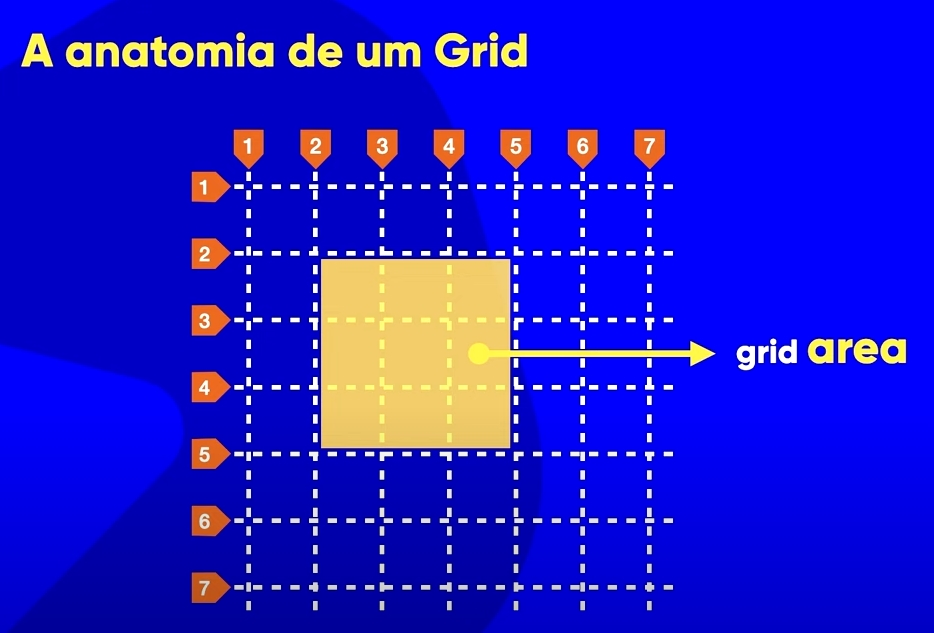
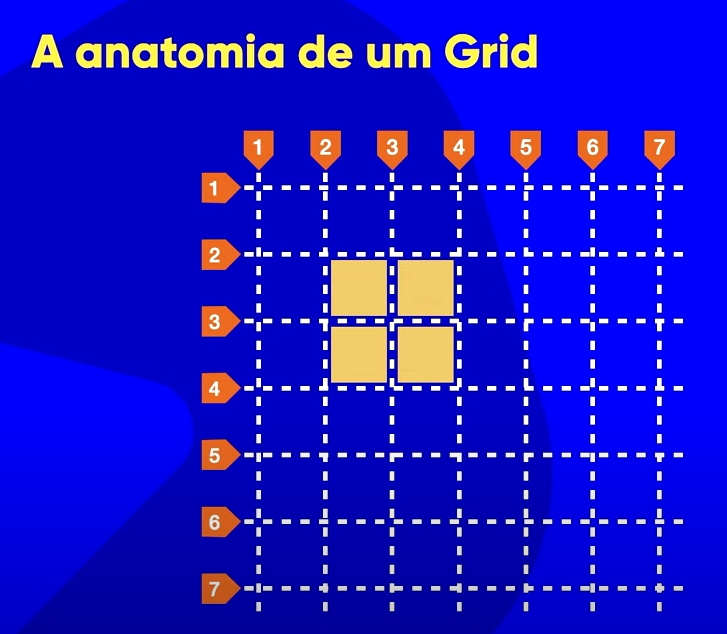
Conclusão
Módulo 05, Capítulo 28, Aula 02

diff --git a/Curso completo e atual de HTML5 e CSS3 - Módulos COMENTADOS/Exercicios/Modulo-05/ex028/grid002/index.html b/Curso completo e atual de HTML5 e CSS3 - Módulos COMENTADOS/Exercicios/Modulo-05/ex028/grid002/index.html
@@ -54,7 +54,7 @@
                 <div class="div_img_main">
                     <p>Neste exemplo abaixo temos uma "Grid" 6x6 que equivale a 6/linhas e 6/colunas:</p>
                     <div>
-                        <img class="img_main img2" src="./img2/img.jpg" alt="imagem W3C">
+                        <img class="img_main img2" src="./img2/img.jpg" alt="imagem de uma grid">
                     </div>
                 </div>
                 
@@ -75,118 +75,168 @@
                 <div>
                     <h1>Definição de Grid Container e Grid Item</h1>
                     <span class="span_minute">4:06</span>
-                    <p>O <span class="span_destaque">'container'</span> é a caixa que envolve outras caixas; Ou podemos chamar o container de<span class="span_destaque">"caixa pai"</span>, onde contém outras caixas que podem ser chamadas de "itens" ou "elemento filhos" como podemos ver no exemplo abaixo:</p>
+                    <p>O <span class="span_destaque">'container'</span> é a caixa que envolve outras caixas; Ou podemos chamar o container de <span class="span_destaque">"caixa pai"</span>, que é onde contém outras caixas que podem ser chamadas de "itens" ou "elemento filhos" como podemos ver no exemplo abaixo:</p>
                     <p><strong><span class="span_destaque">...................</span></strong></p>
-                    O 'container' é a caixa que envolve outras caixas; Ou podemos chamar o container de "caixa pai" onde contém outras caixas que podem ser chamadas de "itens" ou "elemento filhos" como podemos ver no exemplo abaixo:
                 </div>
-                                                <!--
                 <div class="div_img_main">
                     <div>
-                        <img class="img_main img2_main" src="./img1/img5.jpg" alt="imagem exemplo site G1">
+                        <img class="img_main img2_main" src="./img2/img1.jpg" alt="imagem de uma grid container">
                     </div>
-                    <p>Então vemos no exemplo do site do G1 abaixo, que as partes tracejadas formam as colunas verticalmente, e as partes horizontais formam as linhas.</p>
+                    <p>Na imagem seguinte vemos que um 'item' ou "vários itens" se forma na junção das grades:</p>
                     <div>
-                        <img class="img_main img2_main" src="./img1/img6.jpg" alt="imagem exemplo site G1 com linhas tracejadas">
+                        <img class="img_main img2_main" src="./img2/img2.jpg" alt="imagem de um grid item">
                     </div>
-                </div>
-                <p>
-                    A específicação de Grid Layout surgiu em 2011 sendo a primeira versão a ser citada como padrão que virou 'wyse candate'.
-                    <strong>
-                        Ainda nos exemplo a seguir, o professor delimita|marca a área com linhas brancas as quas seguem as linhs tracejadas e assim formam os 'blocos'.
-                    </strong>
-                    <div>
-                        <img class="img_main" src="./img1/img7.jpg" alt="imagem exemplo site G1 com linhas brancas delimitando blocos">
-                    </div>
-                </p>
-                <br>
-                <aside>
-                    <p class="p_destaque2" style="text-align: center;">Com esses exemplos podemos entender que um bloco pode ser definido começando de uma determinada linha vertial até outra, e ao mesmo tempo começando de uma determinada linha horizontal até outra;</p>
-                    <p class="p_destaque2">No exemplo abaixo vemos que esse bloco do meio <span style="color: rgb(0, 110, 255);">"Esse maior com outros dois blocos dentro"</span>, começa na <span class="span_destaque2">linha vertical 2</span> e termina na <span class="span_destaque2">linha 22</span>, e ao mesmo tempo começa na <span class="span_destaque2">linha horizontal 2</span>, e termina na linha <span class="span_destaque2">horizontal 4</span> 'de acordo com a marcação exemplar do professor!'.</p>
-                    <div>
-                        <img class="img_main" src="./img1/img8.jpg" alt="imagem exemplo site G1 com linhas brancas delimitando blocos">
-                    </div>
-                    <p class="p_destaque2" style="text-align: center;">É justamente isto que é sensacional no <span class="span_destaque2">'Grid Layout'</span> , pois podemos <span style="color: rgb(0, 110, 255);">"criar"</span> interfaces de maneira mais fácil.</p>
-                    
-                    <p class="p_destaque2" style="text-align: center;"><span class="span_destaque2">Observe</span> que as linhas brancas <span style="color: rgb(0, 110, 255);">seguem as pontilhadas formando as áreas;</span> Então a proposta foi montada seguindo essas linhas pontilhadas para se ter uma idéia de como pode ser a distribuição dos elementos do site G1 dentro da Grid.
-                    </p>
-                    <p class="p_destaque2" style="text-align: center;"><span class="span_destaque2">Observação:</span> Lembra que; Talvez no módulo <span style="color: rgb(0, 110, 255);">2</span> do curso onde aprendemos a montar um grade, a estrutura do site?
-                        <br>
-                        Pois bem; Este exemplo abaixo é uma estrutura muito mais avançada.
-                    </p>
-                    <div>
-                        <img class="img_main" src="./img1/img9.jpg" alt="imagem exemplo site G1 com linhas brancas delimitando blocos">
-                    </div>
-
-                    <p class="p_destaque2" style="text-align: center;"><span class="span_destaque2">"Então"</span> , essa estrutura mostrada no vídeo pode ser uma grade de proposta <span style="color: rgb(0, 110, 255);">"uma versão"</span> ou uma possibilidade que conseguimos fazer com Grid Layout no site do G1.
-                        Veja abaixo como fica essa possibilidade marcadas por linhas brancas.
-                        <br>
-                        <span class="span_destaque2">Mas</span> saiba que no fim, tudo obedece a grade mostrada antes.
-                    </p>
-                    <div>
-                        <img class="img_main" src="./img1/img9a.jpg" alt="imagem exemplo site G1 com linhas brancas delimitando blocos">
-                    </div>
-                </aside>
-            </section>
-            <section>
-                <div class="div_img_main">
-                    <p>O exemplo abaixo mostra como fica esta estrutura de Grid em telas menores|estreitas, como é o caso de celulares.</p>
-                    <div>
-                        <img class="img_main img2_main" src="./img1/img10.jpg" alt="imagem exemplo site G1">
-                    </div>
-                    <div>
-                        <img class="img_main img2_main" src="./img1/img11.jpg" alt="imagem exemplo site G1 com linhas tracejadas">
-                    </div>
-                    <p>Portanto o objetivo do <span style="color: rgb(0, 110, 255);">Grid Layout</span> é criar interfaces; Posicionar elementos|itens dentro da grade de maneira organizada, para que consigamos ver o site de uma forma apresentável em deversos tipos de telas.</p>
                 </div>
             </section>
         </article>
         <article>
             <section>
-                <h1>Pra que surgiu o Grid Laout?</h1>
-                <span class="span_minute">9:31</span>
+                <h1>Explicação sobre Grid Tracks (Row Tracks e Column Tracks)</h1>
+                <span class="span_minute">5:23</span>
                 <div class="div_img_main">
-                    <p>Alguns anos atrás, antes da específicação da Grid Layout, tudo era 'macro' na intenet, e os sites eram 'Horripilantes' sem design ou efeitos visual agradáveis.
-                    <br>
-                    Na vídeo aula vimos alguns exemplos, como o caso do site <span style="color: rgb(0, 53, 122);">'3DRealms.com'</span> feito no modelo antigo que usa o conceito de tabela;
+                    <p>Quando temos vários itens na mesma linha ou na mesma coluna; "Estes itens que vão do ínicio ao fim da grade" e que seja na vertical ou na horizontal, chamamos a estes de
+                        <br>
+                        <span style="color: rgb(0, 53, 122);">"Grid Track".</span>
                     </p>
-                    
-                    <div>
-                        <img class="img_main img2_main" src="./img1/img12.jpg" alt="imagem exemplo site 3DRealms.com">
-                    </div>
                     <p>
-                        Outro exemplo de site criado com tabela é o <span style="color: rgb(0, 53, 122);">'logracket.com' </span> que também usa o mesmo conceito que aprendemos nas aulas sobre tabelas.
+                        O nome <span style="color: rgb(0, 53, 122);">"Grid Track".</span> é um nome genérico, pois existem os nomes para os blocos deitados e os blocos em pé; Que são:<strong>'linha e coluna'</strong>.
+                    </p>
+                    <p>
+                        "OUTRO DETALHE IMPORTANTE:" <span style="color: rgb(0, 53, 122);">Quando as "tracks" se encontram; Esse ponto de encontro|cruzamento, chamamos de 'Item de Grade'. 
+                        <br>
+                        <strong>Observe no detalhe da imagem acima, onde o "item de grade" tem a sua cor destacada.</strong> </span>
+                    </p>
+                    <p>Quando temos uma "grid track" /deitada/horizontal, chamamos ele de <span style="color: rgb(0, 53, 122);">row_track</span>, e quando temos a "track" /em-pé/vertical, chamamos ela de <span style="color: rgb(0, 53, 122);">column_track</span> como podemos ver no exemplo da imagem abaixo:
+                        <br>
                     </p>
                     <div>
-                        <img class="img_main img2_main" src="./img1/img13.jpg" alt="imagem exemplo site logracket.com">
-                    </div>
-                    <p>Outra maneira antiga, e "parece até ter surgido antes"; Era a criação de sites com o uso dos <span style="color: rgb(0, 53, 122);">'frames'.</span>
-                    <br>
-                    Um exemplo com esse conceito bizonho, é o site 'logracket.com' no 'Danny´s Homepage'.</p>
-                    <div>
-                        <img class="img_main img2_main" src="./img1/img14.jpg" alt="imagem exemplo site logracket.com no Danny´s Homepage">
+                        <img class="img_main img2_main" src="./img2/img4.jpg" alt="imagem grid track,row track e column track">
                     </div>
                 </div>
                 <aside>
-                    <p>Essa maneira de criar site foi sendo deixada de lado no que diz respeito a <span class="span_destaque2">aparência e interatividade</span>, uma vez que geralmente neste tipo site, a parte lateral, a parte de cima do site ficava parada enquanto que o meio onde fica o conteúdo da página rolava e todo o resto ficava parado;
+                    <p>Quando temos "linhas" entre os elementos, chamamos estas linhas de <span class="span_destaque2">Grid_lines</span>; Nos exemplos abaixo onde a grade é de 6x6, temos <span style="color: rgb(6, 102, 228);">7/grid_lines_horizontais e 7/grid_lines_verticais</span>.
                     <br>
-                    Isso gerava um problema muito grande, porque em telas um pouco menores, e <span style="color: rgb(6, 102, 228);">"isso começou a acontecer com frequência";</span> Existia versões do mesmo site onde assim que era acessada a página principal, o usuário teria de escolher entre a versão com <span class="span_destaque2">'frames'</span> versão <span class="span_destaque2">'sem frames'</span>.
+                    <strong>As grid lines horizontais delimitam os itens de linhas e as grid lines verticais delimitam os itens de coluna.</strong>
                     </p>
+                    
+                    <p><span class="span_destaque2">"OBSERVE:"</span>
+                        Que neste exemplo abaixo, as <span style="color: rgb(6, 102, 228);">'grid lines' em pé</span> tem sua enumeração da esquerda para direita.</p>
                     <div>
-                        <img class="img_main" src="./img1/img15.jpg" alt="imagem exemplo site logracket.com no Danny´s Homepage com opção de versões">
+                        <img class="img_main" src="./img2/img5.jpg" alt="imagem exemplo de númeração de grid line">
                     </div>
-                    <p>Isso se dava porque as telas menores começaram a sugir, e também alguns navegadores começaram a ser incompátiveis com o uso de frames.</p>
+
+                    <p><span class="span_destaque2">Já neste exemplo abaixo</span>
+                        , as <span style="color: rgb(6, 102, 228);">'grid lines' deitadas</span> são enumeradas de cima para baixo.</p>
+                    <div>
+                        <img class="img_main" src="./img2/img6.jpg" alt="imagem exemplo de númeração de grid line">
+                    </div>
                 </aside>
             </section> -->
         </article>
+        <article>
+            <section>
+                <h1>Numeração das Grid Lines (positiva e negativa)</h1>
+                <span class="span_minute">10:00</span>
+                <div class="div_img_main">
+                    <p><span class="span_destaque">A Numeração das 'grid lines'</span> podem ser <span style="color: rgb(0, 53, 122);">(positivas ou negativas) </span> e compreender isto, facilita na hora de criação de /grades.
+                    </p>
+                    <div>
+                        <img class="img_main img2_main" src="./img2/img7.jpg" alt="imagem grid lines positivas e negativas">
+                    </div>
+                </div>
+                <aside>
+                    <p>Saber as númearações das 'grid lines' nos ajudam bastante, pois muitas vezes não sabemos o valor real da última grid line; <span>Então podemos dizer que ela é a </span> <span class="span_destaque2">(-1)</span>; independente do tamanho da /grade.<span style="color: rgb(6, 102, 228);">"-1 vai ser sempre a última."</span>.
+                        <br>
+                        <span class="span_destaque2">'OBS':</span>
+                        <strong>Podemos dizer que a linha de <span style="color: rgb(6, 102, 228);">(número 1)</span>, também equivale a linha <span class="span_destaque2">(-7) </span>"Isso para o nosso exemplo de grade, que é <span style="color: rgb(6, 102, 228);">6x6</span>"; Que a linha <span style="color: rgb(6, 102, 228);">(2)</span> também é a linha <span class="span_destaque2">(-6)</span>, ou que a linha <span style="color: rgb(6, 102, 228);">(6)</span> equivale a linha <span class="span_destaque2">(-2)</span>.</strong>
+                    </p>
+                    
+                    <p><span class="span_destaque2">"Detalhe:"</span>
+                        <br>
+                        A linha <span style="color: rgb(6, 102, 228);">(-1 e -2)</span> sempre será a <span class="span_destaque2">última e a penúltima grid line</span> mesmo que não saibamos o tanto de linhas que temos na grade; E o mesmo vale para os outros números.
+                        <br>
+                        <br>
+                        <strong>
+                            Veja no exemplo abaixo, que temos várias opções para enumerar uma área dentro da grid.
+                        </strong> 
+                    </p>
+                    <div>
+                        <img class="img_main" src="./img2/img8.jpg" alt="imagem exemplo de númeração de grid line">
+                    </div>
+                    
+                    <p>
+                        <span class="span_destaque2">Exemplos de como podemos enumerar uma área:</span>
+                    </p>
+                    <ul>
+                        <li>A- Da linha  2 à linha  6</li>
+                        <li>B- Da linha -6 à linha -2</li>
+                        <li>C- Da linha -6 à linha  6</li>
+                        <li>D- Da linha  2 à linha -2</li>
+                    </ul>
+
+                    <p>Para a construção de interfaces é mais fácil de se dizer que uma determinda grade vai da /linha 2 até a penúltima linha (que é a -2), <span class="span-destaque2">como podemos ver no exemplo abaixo</span>.</p>
+                    <div>
+                        <img class="img_main" src="./img2/img9.jpg" alt="imagem exemplo de númeração de grid line">
+                    </div>
+                </aside>
+            </section> 
+        </article>
+        <article>
+            <section>
+                <h1>Definição de Grid Area</h1>
+                <span class="span_minute">13:00</span>
+                <p>
+                    Quando temos um agrupamento de itens, nós chamamos a isto de <span class="span_destaque">"Grid Area"</span> ou <span style="color: rgb(0, 53, 122);">(área de grid.)</span>
+                </p>
+                <div class="div_img_main">
+                    <div>
+                        <img class="img_main img2_main" src="./img2/img10.jpg" alt="imagem grid area">
+                    </div>
+                </div>
+            </section> 
+        </article>
+
+
+        <article>
+            <section>
+                <h1>Explicação sobre Grid Gap</h1>
+                <span class="span_minute">13:45</span>
+                <p>
+                    Chamado por muitos de <span class="span_destaque">'respiro'</span>; O espaço entre os elementos é conhecido como <span class="span-destaque2">"Grid Gap"</span>.
+                    <br>
+                    <span style="color: rgb(0, 53, 122);">Veja</span> como fica este <span class="span_destaque">"respiro"</span>, Observando as imagens abaixo:
+                </p>
+                <div class="div_img_main">
+                    <div>
+                        <img class="img_main img2_main" src="./img2/img11.jpg" alt="imagem grid gap">
+                    </div>
+                    <div>
+                        <img class="img_main img2_main" src="./img2/img12.jpg" alt="imagem grid gap">
+                    </div>
+                </div>
+                <p>
+                    <span class="span_destaque">"OBS":</span>
+                        O uso do <span style="color: rgb(0, 53, 122);">"Grid Gap"</span> não altera o tamanho do item(Grid Item).
+                </p>
+                <div class="div_img_main">
+                    <div>
+                        <img class="img_main img2_main" src="./img2/img13.jpg" alt="imagem grid gap">
+                    </div>
+                    <div>
+                        <img class="img_main img2_main" src="./img2/img14.jpg" alt="imagem grid gap">
+                    </div>
+                </div>
+            </section> 
+        </article> 
     </main>
 
     <!-- FOOTER -->
     <footer>
         <section class="footer_redessociais">
             <h2>Siga nossas redes sociais e <span style="color: #ff6804e3; font-weight: bolder;">+</span></h2>
-            <img style="width: 250px;" src="./img2/logocursoemvideomax.jpg" alt="imagem logo curso em vídeo">
-            <img src="./img2/insta.jpg" alt="imagem insta curso em vídeo" class="img_footer">
-            <img src="./img2/cursogratisrecode.jpg" alt="imagem recode" class="img_footer">
+            <img class="img_footer" src="./img2/logocursoemvideomax.jpg" alt="imagem logo curso em vídeo">
+            <img class="img_footer" src="./img2/insta.jpg" alt="imagem insta curso em vídeo">
+            <img class="img_footer" src="./img2/cursogratisrecode.jpg" alt="imagem recode">
         </section>
         <section class="footer_redessociais">
             <h2>Curso grátis</h2>

diff --git a/Curso completo e atual de HTML5 e CSS3 - Módulos COMENTADOS/Exercicios/Modulo-05/ex028/grid002/style.css b/Curso completo e atual de HTML5 e CSS3 - Módulos COMENTADOS/Exercicios/Modulo-05/ex028/grid002/style.css
@@ -37,6 +37,10 @@ strong {
     font-weight: bolder;
     text-indent: 10px;
 }
+ul {
+    padding: 20px;
+    margin: 10px;
+}
 
 
     /* HEADER */
